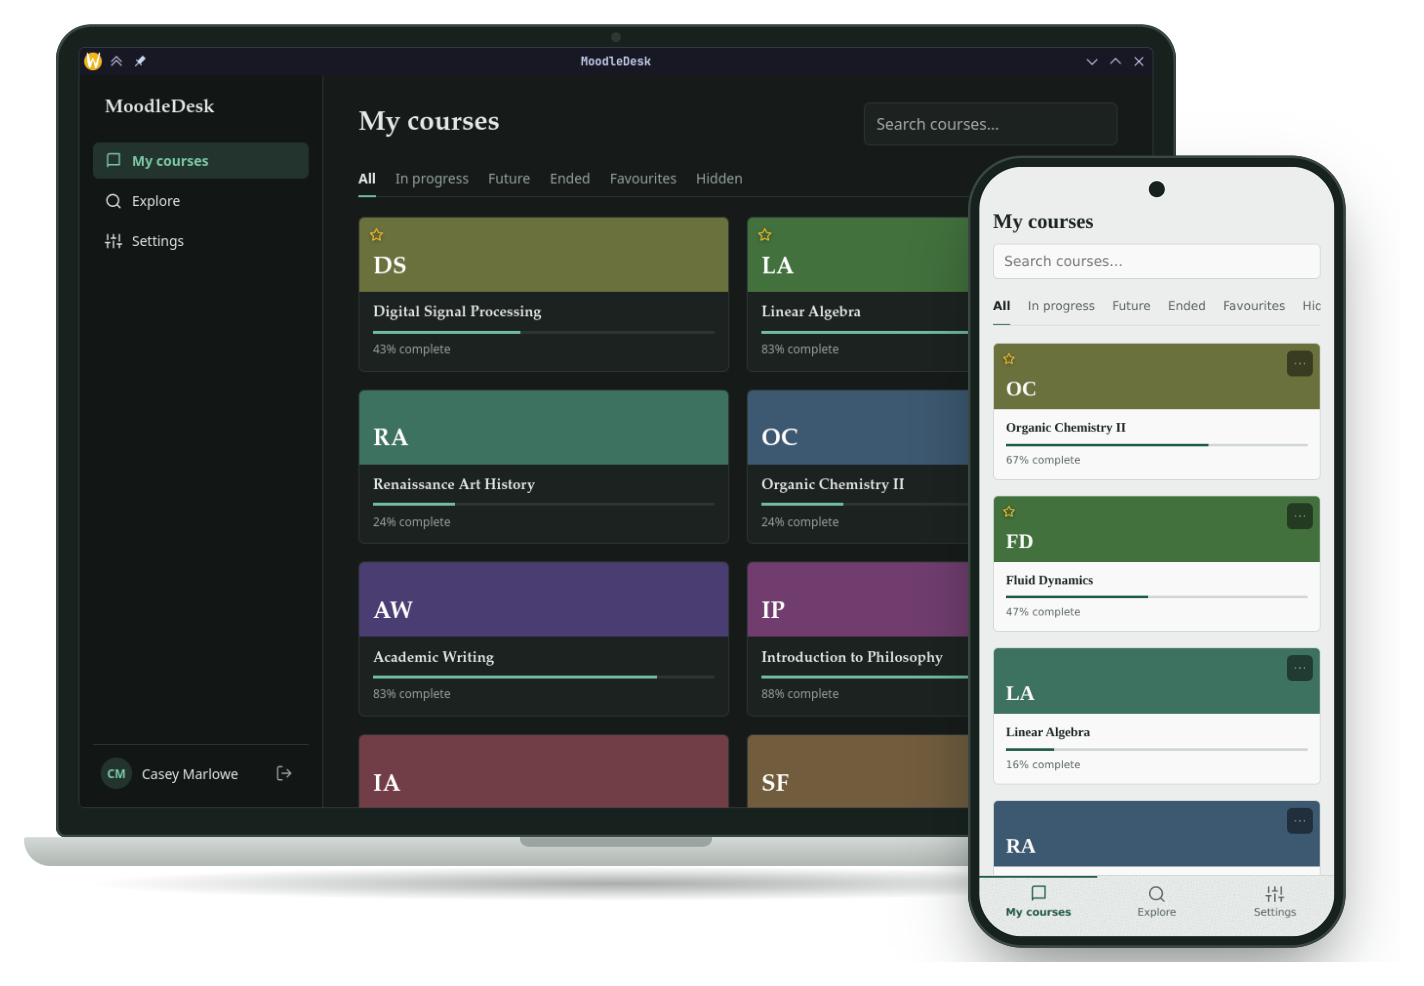
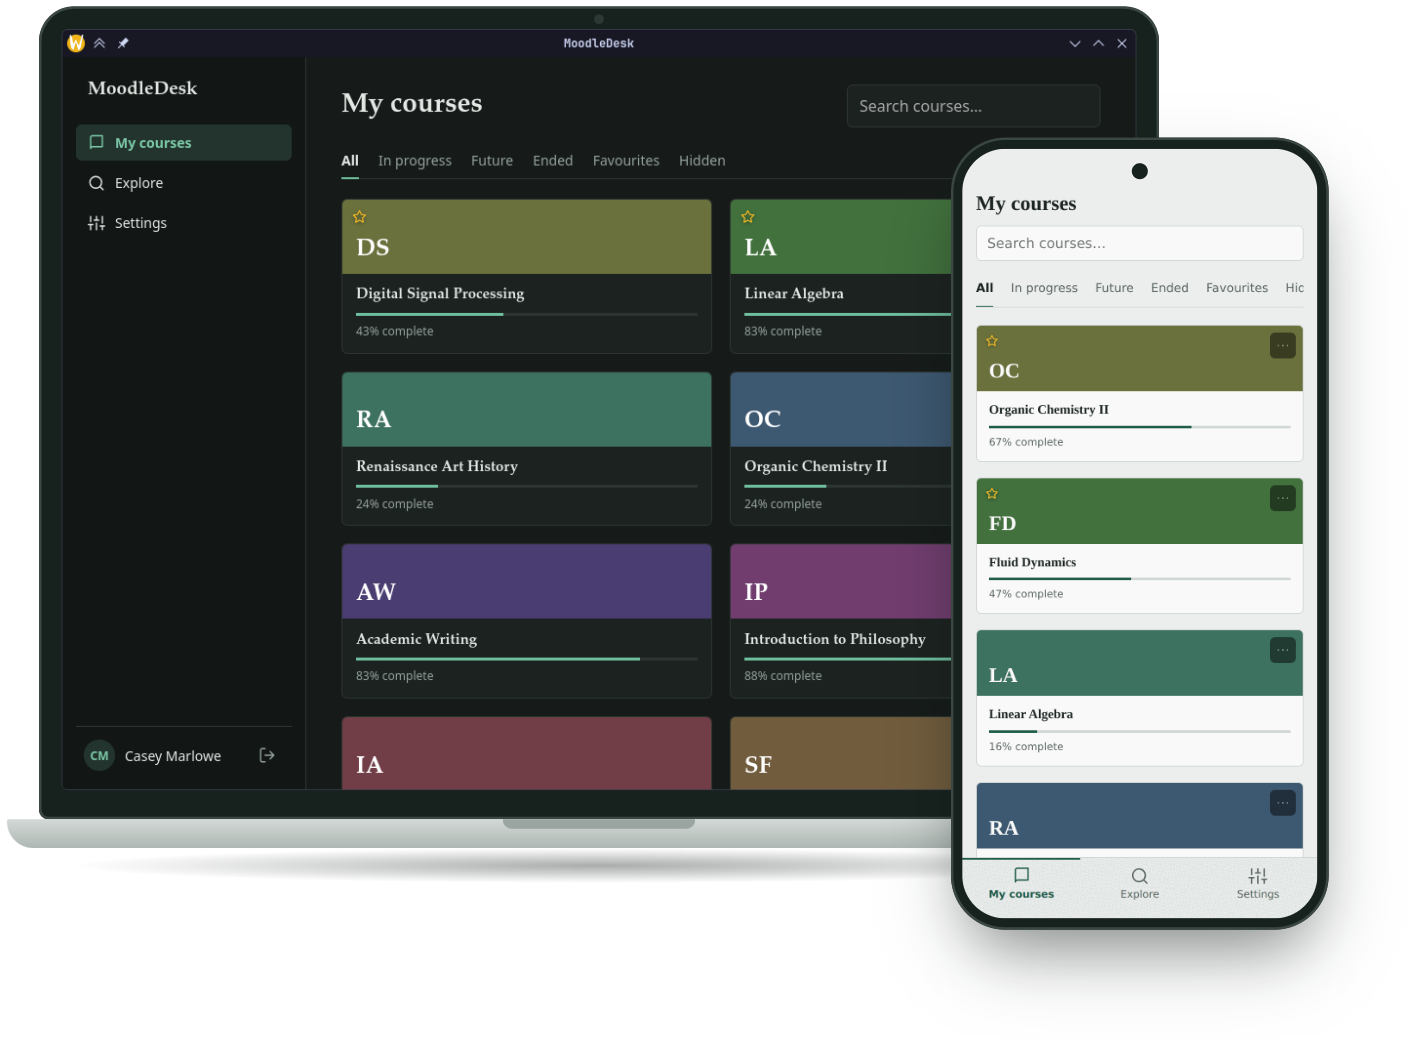
update website, update release.yml

diff --git a/docs/index.html b/docs/index.html
@@ -9,9 +9,9 @@
 <link rel="preload" href="fonts/source-sans-3-latin-wght-normal.woff2" as="font" type="font/woff2" crossorigin>
 <style>
 @font-face{font-family:"Source Sans 3";src:url(fonts/source-sans-3-latin-wght-normal.woff2) format("woff2");font-weight:200 900;font-style:normal;font-display:swap}
-:root{--bg:#f6f7f6;--stripe:#e6eae8;--fg:#1d2522;--mut:#515e5a;--line:#d1d7d4;--acc:#1f5c4a;--accfg:#1f5c4a;--accon:#fff;--bezel:#17211d;--r:6px;
+:root{--bg:#f6f7f6;--stripe:#e6eae8;--fg:#1d2522;--mut:#515e5a;--line:#d1d7d4;--acc:#1f5c4a;--accfg:#1f5c4a;--accon:#fff;--r:6px;
 --sans:"Source Sans 3",system-ui,"Segoe UI",Roboto,"Helvetica Neue",sans-serif;--serif:"Iowan Old Style","Palatino Linotype",Palatino,"Book Antiqua","URW Palladio L",P052,Georgia,serif;color-scheme:light}
-@media(prefers-color-scheme:dark){:root{--bg:#161b19;--stripe:#202825;--fg:#e3e8e5;--mut:#9aa7a1;--line:#2c3531;--acc:#6fbf9f;--accfg:#7cc9a8;--accon:#10231b;--bezel:#0c110f;color-scheme:dark}}
+@media(prefers-color-scheme:dark){:root{--bg:#161b19;--stripe:#202825;--fg:#e3e8e5;--mut:#9aa7a1;--line:#2c3531;--acc:#6fbf9f;--accfg:#7cc9a8;--accon:#10231b;color-scheme:dark}}
 *{box-sizing:border-box}
 body{margin:0;background:var(--bg);color:var(--fg);font:18px/1.65 var(--sans);-webkit-text-size-adjust:100%}
 a{color:var(--accfg);text-underline-offset:3px}
@@ -28,11 +28,7 @@ h1{font:600 clamp(36px,5vw,54px)/1.08 var(--serif);margin:0 0 20px}
 .btn{display:inline-block;background:var(--acc);color:var(--accon);padding:13px 22px;border-radius:var(--r);font-weight:600;text-decoration:none}
 .btn:hover{filter:brightness(1.08)}
 .meta{margin:12px 0 0;color:var(--mut);font-size:16px}
-.stage{position:relative;padding-bottom:48px}
-.shot{width:100%;height:auto;display:block;border:1px solid var(--line);border-radius:var(--r)}
-.phone{position:absolute;right:3%;bottom:0;width:30%;max-width:210px;margin:0;padding:6px;background:var(--bezel);border-radius:9% / 4.2%;box-shadow:0 18px 40px -14px rgba(10,20,16,.45)}
-.phone img{display:block;width:100%;height:auto;border-radius:7.5% / 3.5%}
-.phone::after{content:"";position:absolute;top:2.6%;left:50%;width:4.5%;aspect-ratio:1;transform:translateX(-50%);background:var(--bezel);border-radius:50%;box-shadow:0 0 0 1px rgba(255,255,255,.12)}
+.shot{width:100%;height:auto;display:block}
 section{padding:48px 0;border-top:1px solid var(--line)}
 h2{font:600 30px/1.2 var(--serif);margin:0 0 24px}
 .rows,.files{margin:0;padding:0;list-style:none;border:1px solid var(--line);border-radius:var(--r);overflow:hidden}
@@ -51,7 +47,7 @@ h2{font:600 30px/1.2 var(--serif);margin:0 0 24px}
 .files .sz{white-space:nowrap}
 .note{margin:28px 0 0;color:var(--mut);font-size:16px}
 footer{padding:32px 0 48px;border-top:1px solid var(--line);color:var(--mut);font-size:15px}
-@media(max-width:860px){header nav a{margin-left:16px}.hero{grid-template-columns:1fr;gap:36px;padding-top:24px}.rows>div{grid-template-columns:1fr;gap:4px;padding:16px 18px}.files li{padding:14px 18px}.phone{width:34%}}
+@media(max-width:860px){header nav a{margin-left:16px}.hero{grid-template-columns:1fr;gap:36px;padding-top:24px}.rows>div{grid-template-columns:1fr;gap:4px;padding:16px 18px}.files li{padding:14px 18px}}
 </style>
 </head>
 <body>
@@ -69,10 +65,7 @@ footer{padding:32px 0 48px;border-top:1px solid var(--line);color:var(--mut);fon
     <a class="btn" id="get" href="https://github.com/zac06/moodledesk/releases/latest">Download from GitHub</a>
     <p class="meta" id="meta">Works on Linux, Windows, macOS and Android.</p>
   </div>
-  <div class="stage">
-    <img class="shot" src="screenshot.png" width="1230" height="908" alt="MoodleDesk on a computer, showing a grid of courses with a sidebar">
-    <figure class="phone"><img src="android.png" width="824" height="1784" alt="MoodleDesk on an Android phone, showing a list of courses with a navigation bar at the bottom"></figure>
-  </div>
+  <img class="shot" src="mockup.png" width="1414" height="1046" alt="MoodleDesk on a laptop, showing a grid of courses with a sidebar, next to an Android phone showing the course list with a navigation bar at the bottom">
 </div>
 
 <section>
